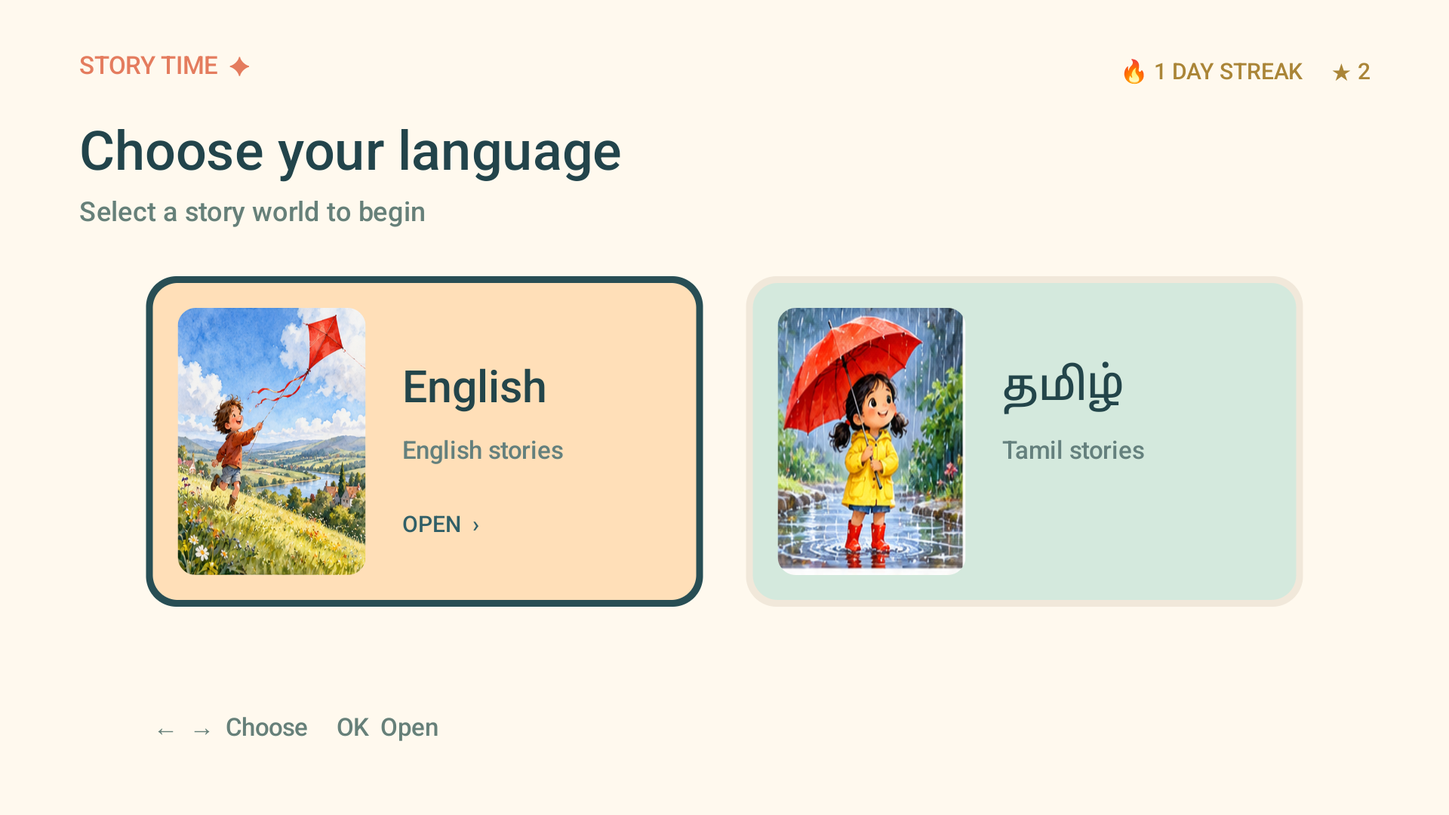
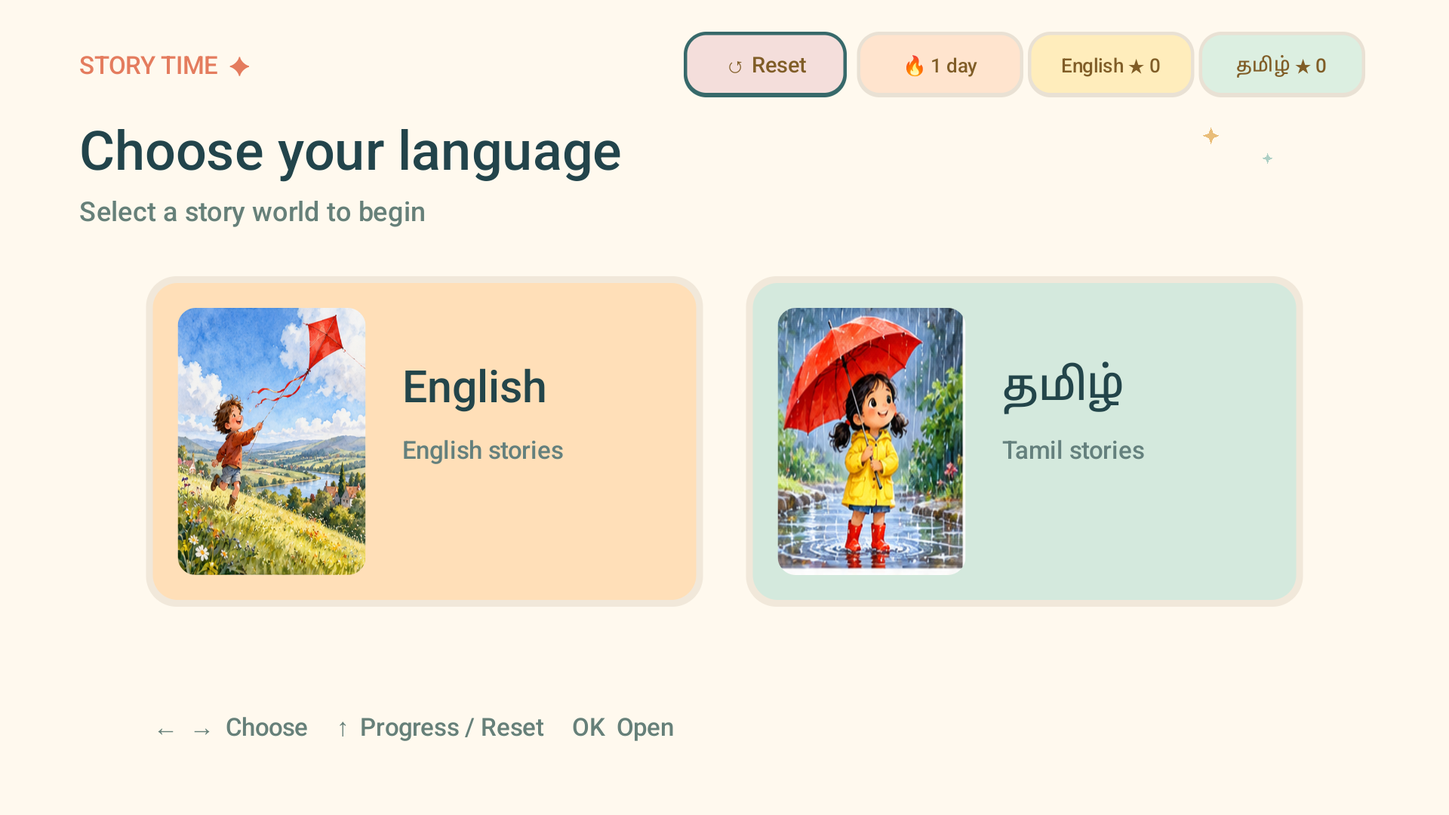
Celebrate story completion and reset reading progress

diff --git a/src/com/example/storytv/MainActivity.java b/src/com/example/storytv/MainActivity.java
@@ -1,19 +1,19 @@
 package com.example.storytv;
 import android.app.Activity;import android.os.Bundle;import android.graphics.*;import android.view.*;import org.json.*;import java.io.*;
 public class MainActivity extends Activity {
- JSONArray stories;int selected=0,firstRow=0,language=-1,languageChoice=0,statFocus=-1,progressScreen=-1,englishStars=0,tamilStars=0;boolean credits=false;Scene view;Bitmap meadow;CoverArt covers;
+ JSONArray stories;int selected=0,firstRow=0,language=-1,languageChoice=0,statFocus=-1,progressScreen=-1,englishStars=0,tamilStars=0;boolean credits=false,resetDialog=false;int resetChoice=0;Scene view;Bitmap meadow;CoverArt covers;
  public void onCreate(Bundle b){super.onCreate(b);getWindow().getDecorView().setSystemUiVisibility(5894);try{InputStream in=getAssets().open("stories.json");ByteArrayOutputStream out=new ByteArrayOutputStream();byte[] buf=new byte[4096];int n;while((n=in.read(buf))!=-1)out.write(buf,0,n);in.close();stories=new JSONArray(out.toString("UTF-8"));in=getAssets().open("meadow.png");meadow=BitmapFactory.decodeStream(in);in.close();}catch(Exception e){finish();return;}try{covers=new CoverArt(this);}catch(Exception e){finish();return;}view=new Scene();setContentView(view);}
  protected void onResume(){super.onResume();StreakChannel.refreshAsync(this);if(stories!=null){englishStars=StoryProgress.countLanguage(this,stories,false);tamilStars=StoryProgress.countLanguage(this,stories,true);}if(view!=null)view.invalidate();}
- public boolean onKeyDown(int k,KeyEvent e){if(progressScreen>=0){if(k==KeyEvent.KEYCODE_BACK||k==KeyEvent.KEYCODE_DPAD_CENTER||k==KeyEvent.KEYCODE_ENTER){progressScreen=-1;view.invalidate();}return true;}if(statFocus>=0){if(k==KeyEvent.KEYCODE_DPAD_LEFT)statFocus=Math.max(0,statFocus-1);else if(k==KeyEvent.KEYCODE_DPAD_RIGHT)statFocus=Math.min(2,statFocus+1);else if(k==KeyEvent.KEYCODE_DPAD_DOWN||k==KeyEvent.KEYCODE_BACK)statFocus=-1;else if(k==KeyEvent.KEYCODE_DPAD_CENTER||k==KeyEvent.KEYCODE_ENTER)progressScreen=statFocus;view.invalidate();return true;}if(credits){if(k==KeyEvent.KEYCODE_BACK||k==KeyEvent.KEYCODE_DPAD_CENTER){credits=false;view.invalidate();}return true;}
+ public boolean onKeyDown(int k,KeyEvent e){if(resetDialog){if(k==KeyEvent.KEYCODE_DPAD_LEFT||k==KeyEvent.KEYCODE_DPAD_RIGHT)resetChoice=k==KeyEvent.KEYCODE_DPAD_LEFT?0:1;else if(k==KeyEvent.KEYCODE_BACK)resetDialog=false;else if(k==KeyEvent.KEYCODE_DPAD_CENTER||k==KeyEvent.KEYCODE_ENTER){if(resetChoice==1){StoryProgress.resetStories(this);englishStars=0;tamilStars=0;selected=0;firstRow=0;}resetDialog=false;}view.invalidate();return true;}if(progressScreen>=0){if(k==KeyEvent.KEYCODE_BACK||k==KeyEvent.KEYCODE_DPAD_CENTER||k==KeyEvent.KEYCODE_ENTER){progressScreen=-1;view.invalidate();}return true;}if(statFocus>=0){if(k==KeyEvent.KEYCODE_DPAD_LEFT)statFocus=statFocus==0?3:statFocus==3?3:statFocus-1;else if(k==KeyEvent.KEYCODE_DPAD_RIGHT)statFocus=statFocus==3?0:Math.min(2,statFocus+1);else if(k==KeyEvent.KEYCODE_DPAD_DOWN||k==KeyEvent.KEYCODE_BACK)statFocus=-1;else if(k==KeyEvent.KEYCODE_DPAD_CENTER||k==KeyEvent.KEYCODE_ENTER){if(statFocus==3){resetDialog=true;resetChoice=0;}else progressScreen=statFocus;}view.invalidate();return true;}if(credits){if(k==KeyEvent.KEYCODE_BACK||k==KeyEvent.KEYCODE_DPAD_CENTER){credits=false;view.invalidate();}return true;}
  if(language<0){if(k==KeyEvent.KEYCODE_DPAD_UP){statFocus=0;}else if(k==KeyEvent.KEYCODE_DPAD_LEFT)languageChoice=0;else if(k==KeyEvent.KEYCODE_DPAD_RIGHT||k==KeyEvent.KEYCODE_DPAD_DOWN)languageChoice=1;else if(k==KeyEvent.KEYCODE_DPAD_CENTER||k==KeyEvent.KEYCODE_ENTER){language=languageChoice;selected=0;firstRow=0;}else if(k==KeyEvent.KEYCODE_BACK){finish();return true;}else return super.onKeyDown(k,e);view.invalidate();return true;}
  int total=LanguageCatalog.count(language);if(k==KeyEvent.KEYCODE_DPAD_LEFT)selected=Math.max((selected/3)*3,selected-1);else if(k==KeyEvent.KEYCODE_DPAD_RIGHT)selected=Math.min(Math.min(total-1,(selected/3)*3+2),selected+1);else if(k==KeyEvent.KEYCODE_DPAD_UP){if(selected<3)statFocus=0;else selected-=3;}else if(k==KeyEvent.KEYCODE_DPAD_DOWN)selected=Math.min(total-1,selected+3);else if(k==KeyEvent.KEYCODE_DPAD_CENTER||k==KeyEvent.KEYCODE_ENTER){int index=LanguageCatalog.storyIndex(language,selected);if(index==80){credits=true;}else if(index>=78){startActivity(new android.content.Intent(this,BookActivity.class).putExtra("book",index-78));}else{startActivity(new android.content.Intent(this,ShortStoryActivity.class).putExtra("story",index));}}else if(k==KeyEvent.KEYCODE_BACK){language=-1;view.invalidate();return true;}else return super.onKeyDown(k,e);int row=selected/3;if(row<firstRow)firstRow=row;else if(row>firstRow+1)firstRow=row-1;view.invalidate();return true;}
- class Scene extends View {Paint p=new Paint(3),motionPaint=new Paint(3);Scene(){super(MainActivity.this);}void text(Canvas c,String s,float x,float y,int size,int color){p.setColor(color);p.setTextSize(size);c.drawText(s,x,y,p);}void drawStats(Canvas c,float phase){int[] values={StoryProgress.streak(MainActivity.this),englishStars,tamilStars};for(int i=0;i<3;i++){float x=760+i*151;p.setColor(i==statFocus?StoryMotion.focusColor(phase):0xffe9e1d4);c.drawRoundRect(x-3,28,x+144,86,20,20,p);p.setColor(i==0?0xffffe4ce:i==1?0xffffedbc:0xffdcefe1);c.drawRoundRect(x,31,x+141,82,17,17,p);p.setTextAlign(Paint.Align.CENTER);String label=i==0?"🔥 "+values[i]+(values[i]==1?" day":" days"):i==1?"English ★ "+values[i]:"தமிழ் ★ "+values[i];text(c,label,x+70,64,17,0xff805d27);}p.setTextAlign(Paint.Align.LEFT);}protected void onDraw(Canvas c){c.save();c.scale(getWidth()/1280f,getHeight()/720f);c.drawColor(0xfffff9ee);float phase=StoryMotion.phase();if(!credits){StoryMotion.sparkle(c,motionPaint,1070,120,6+(float)Math.sin(phase)*2,0xffe9bd78);StoryMotion.sparkle(c,motionPaint,1120,140,4+(float)Math.cos(phase)*1.5f,0xffadcfc4);}p.setTypeface(Typeface.create("sans-serif-medium",0));p.setTextAlign(Paint.Align.LEFT);
- if(progressScreen>=0){text(c,"STORY TIME  ✦",70,65,22,0xffe47c5e);text(c,progressScreen==0?"Your reading streak":progressScreen==1?"English story stars":"தமிழ் கதை நட்சத்திரங்கள்",100,170,48,0xff22444b);p.setColor(progressScreen==0?0xffffe4ce:0xffffedbc);c.drawRoundRect(100,220,1180,500,32,32,p);p.setTextAlign(Paint.Align.CENTER);text(c,progressScreen==0?"🔥  "+StoryProgress.streak(MainActivity.this):"★  "+(progressScreen==1?englishStars:tamilStars),640,350,78,0xff94692f);text(c,progressScreen==0?"days of reading in a row":"stories completed",640,414,28,0xff805d27);p.setTextAlign(Paint.Align.LEFT);text(c,progressScreen==0?"Finish a story each day to grow your streak.":"Finish a new story to collect a star.",100,560,24,0xff567776);text(c,"BACK  Return",100,645,22,0xff668079);c.restore();return;}
+ class Scene extends View {Paint p=new Paint(3),motionPaint=new Paint(3);Scene(){super(MainActivity.this);}void text(Canvas c,String s,float x,float y,int size,int color){p.setColor(color);p.setTextSize(size);c.drawText(s,x,y,p);}void drawStats(Canvas c,float phase){p.setColor(statFocus==3?StoryMotion.focusColor(phase):0xffe9e1d4);c.drawRoundRect(604,28,748,86,20,20,p);p.setColor(0xfff4dedb);c.drawRoundRect(607,31,745,82,17,17,p);p.setTextAlign(Paint.Align.CENTER);text(c,"↺ Reset",676,64,19,0xff805d27);int[] values={StoryProgress.streak(MainActivity.this),englishStars,tamilStars};for(int i=0;i<3;i++){float x=760+i*151;p.setColor(i==statFocus?StoryMotion.focusColor(phase):0xffe9e1d4);c.drawRoundRect(x-3,28,x+144,86,20,20,p);p.setColor(i==0?0xffffe4ce:i==1?0xffffedbc:0xffdcefe1);c.drawRoundRect(x,31,x+141,82,17,17,p);p.setTextAlign(Paint.Align.CENTER);String label=i==0?"🔥 "+values[i]+(values[i]==1?" day":" days"):i==1?"English ★ "+values[i]:"தமிழ் ★ "+values[i];text(c,label,x+70,64,17,0xff805d27);}p.setTextAlign(Paint.Align.LEFT);}protected void onDraw(Canvas c){c.save();c.scale(getWidth()/1280f,getHeight()/720f);c.drawColor(0xfffff9ee);float phase=StoryMotion.phase();if(!credits){StoryMotion.sparkle(c,motionPaint,1070,120,6+(float)Math.sin(phase)*2,0xffe9bd78);StoryMotion.sparkle(c,motionPaint,1120,140,4+(float)Math.cos(phase)*1.5f,0xffadcfc4);}p.setTypeface(Typeface.create("sans-serif-medium",0));p.setTextAlign(Paint.Align.LEFT);
+ if(resetDialog){p.setColor(0xfffffaf1);c.drawColor(0xfffffaf1);p.setTextAlign(Paint.Align.CENTER);text(c,"Start reading again?",640,190,48,0xff22444b);text(c,"This clears all English and Tamil stars and read marks.",640,265,25,0xff567776);text(c,"Your reading streak stays as it is.",640,305,25,0xff567776);for(int i=0;i<2;i++){float x=300+i*350;p.setColor(i==resetChoice?0xff315f67:0xffe9e1d4);c.drawRoundRect(x-4,390,x+324,480,24,24,p);p.setColor(i==0?0xffd2ebda:0xffffdfca);c.drawRoundRect(x,394,x+320,476,20,20,p);text(c,i==0?"Cancel":"Reset stories",x+160,446,27,0xff23454a);}text(c,"←  →  Choose     OK  Select     BACK  Cancel",640,590,21,0xff668079);p.setTextAlign(Paint.Align.LEFT);c.restore();return;}if(progressScreen>=0){text(c,"STORY TIME  ✦",70,65,22,0xffe47c5e);text(c,progressScreen==0?"Your reading streak":progressScreen==1?"English story stars":"தமிழ் கதை நட்சத்திரங்கள்",100,170,48,0xff22444b);p.setColor(progressScreen==0?0xffffe4ce:0xffffedbc);c.drawRoundRect(100,220,1180,500,32,32,p);p.setTextAlign(Paint.Align.CENTER);text(c,progressScreen==0?"🔥  "+StoryProgress.streak(MainActivity.this):"★  "+(progressScreen==1?englishStars:tamilStars),640,350,78,0xff94692f);text(c,progressScreen==0?"days of reading in a row":"stories completed",640,414,28,0xff805d27);p.setTextAlign(Paint.Align.LEFT);text(c,progressScreen==0?"Finish a story each day to grow your streak.":"Finish a new story to collect a star.",100,560,24,0xff567776);text(c,"BACK  Return",100,645,22,0xff668079);c.restore();return;}
  if(credits){text(c,"Story credits",75,100,46,0xff27444a);text(c,"A Tiny Seed — Book Dash",75,175,28,0xff27444a);text(c,"Nicola Rijsdijk (writer), Maya Marshak (illustrator),",75,220,23,0xff27444a);text(c,"Tarryn-Anne Anderson (designer). Adapted into sentences for TV.",75,255,23,0xff27444a);text(c,"bookdash.org/books/a-tiny-seed",75,290,21,0xff27444a);text(c,"Everything Looks New! — Pratham Books / StoryWeaver",75,360,28,0xff27444a);text(c,"Mala Kumar and Manisha Chaudhry (writers), Priya Kuriyan (illustrator).",75,405,23,0xff27444a);text(c,"Adapted into sentences and cropped for TV.",75,440,23,0xff27444a);text(c,"storyweaver.org.in/stories/71-everything-looks-new",75,475,21,0xff27444a);text(c,"Both books: CC BY 4.0 — creativecommons.org/licenses/by/4.0",75,550,23,0xff27444a);text(c,"Press BACK to return",75,630,22,0xff638084);c.restore();return;}
- if(language<0){text(c,"STORY TIME  ✦",70,65,22,0xffe47c5e);drawStats(c,phase);text(c,"Choose your language",70,150,48,0xff22444b);text(c,"Select a story world to begin",70,195,24,0xff668079);for(int i=0;i<2;i++){float x=135+i*530,y=250;p.setColor(i==languageChoice&&statFocus<0?StoryMotion.focusColor(phase):0xfff1e8da);c.drawRoundRect(x-6,y-6,x+486,y+286,27,27,p);p.setColor(i==0?0xffffdfb8:0xffd4e9dd);c.drawRoundRect(x,y,x+480,y+280,22,22,p);Path clip=new Path();clip.addRoundRect(x+22,y+22,x+188,y+258,16,16,Path.Direction.CW);c.save();c.clipPath(clip);covers.draw(c,p,i==0?0:53,new RectF(x+22,y+22,x+188,y+258));c.restore();text(c,i==0?"English":"தமிழ்",x+220,y+105,39,0xff23454a);text(c,i==0?"English stories":"Tamil stories",x+220,y+155,22,0xff64807d);if(i==languageChoice&&statFocus<0)text(c,"OPEN  ›",x+220,y+220,20,0xff315f67);}text(c,"←  →  Choose     ↑  Progress     OK  Open",135,650,22,0xff668079);c.restore();if(StoryMotion.enabled())postInvalidateDelayed(100);return;}
+ if(language<0){text(c,"STORY TIME  ✦",70,65,22,0xffe47c5e);drawStats(c,phase);text(c,"Choose your language",70,150,48,0xff22444b);text(c,"Select a story world to begin",70,195,24,0xff668079);for(int i=0;i<2;i++){float x=135+i*530,y=250;p.setColor(i==languageChoice&&statFocus<0?StoryMotion.focusColor(phase):0xfff1e8da);c.drawRoundRect(x-6,y-6,x+486,y+286,27,27,p);p.setColor(i==0?0xffffdfb8:0xffd4e9dd);c.drawRoundRect(x,y,x+480,y+280,22,22,p);Path clip=new Path();clip.addRoundRect(x+22,y+22,x+188,y+258,16,16,Path.Direction.CW);c.save();c.clipPath(clip);covers.draw(c,p,i==0?0:53,new RectF(x+22,y+22,x+188,y+258));c.restore();text(c,i==0?"English":"தமிழ்",x+220,y+105,39,0xff23454a);text(c,i==0?"English stories":"Tamil stories",x+220,y+155,22,0xff64807d);if(i==languageChoice&&statFocus<0)text(c,"OPEN  ›",x+220,y+220,20,0xff315f67);}text(c,"←  →  Choose     ↑  Progress / Reset     OK  Open",135,650,22,0xff668079);c.restore();if(StoryMotion.enabled())postInvalidateDelayed(100);return;}
  int total=LanguageCatalog.count(language);text(c,"STORY TIME  ✦",70,65,22,0xffe47c5e);text(c,language==0?"English stories":"தமிழ் கதைகள்",70,126,43,0xff22444b);drawStats(c,phase);
  int start=firstRow*3;int[] colors={0xffffdfb8,0xffd4e9dd,0xffd4e7f3,0xfff4d8cf,0xffe5dcf3,0xffffe8a9};for(int n=0;n<6 && start+n<total;n++){int index=LanguageCatalog.storyIndex(language,start+n);float x=70+(n%3)*385,y=165+(n/3)*207;boolean focused=start+n==selected&&statFocus<0;p.setColor(focused?StoryMotion.focusColor(phase):0xfff1e8da);c.drawRoundRect(x-5,y-5,x+355,y+180,24,24,p);p.setColor(colors[index%colors.length]);c.drawRoundRect(x,y,x+350,y+175,20,20,p);
  Path clip=new Path();clip.addRoundRect(x+12,y+12,x+104,y+163,15,15,Path.Direction.CW);c.save();c.clipPath(clip);if(index<80)covers.draw(c,p,index,new RectF(x+12,y+12,x+104,y+163));else {p.setColor(0xff8bb5b1);c.drawRoundRect(x+12,y+12,x+104,y+163,15,15,p);p.setColor(0xffffffff);p.setTextSize(42);c.drawText("i",x+48,y+103,p);}c.restore();String title=index==80?"Credits":index==78?"A Tiny Seed":index==79?"Everything Looks New!":"";try{if(index<78)title=stories.getJSONObject(index).getString("title");}catch(Exception ignored){}p.setTextSize(23);while(p.measureText(title)>220&&p.getTextSize()>17)p.setTextSize(p.getTextSize()-1);p.setColor(0xff23454a);android.text.TextPaint titlePaint=new android.text.TextPaint(p);String display=android.text.TextUtils.ellipsize(title,titlePaint,220,android.text.TextUtils.TruncateAt.END).toString();c.drawText(display,x+118,y+66,p);boolean completed=index<80&&StoryProgress.isComplete(MainActivity.this,index>=78?"book:"+(index-78):"story:"+title);text(c,completed?"✓  Read":index==80?"About the books":index>=78?"Picture book":"6 little pages",x+118,y+101,18,completed?0xff32784e:0xff64807d);if(focused)text(c,"LET'S READ  ›",x+118,y+145,17,0xff315f67);if(index<80){String level="Hard";try{if(index<78)level=stories.getJSONObject(index).getString("level");}catch(Exception ignored){}int badge=level.equals("Easy")?0xffd6ead7:level.equals("Medium")?0xffffe9bc:0xfff7d8d1;int label=level.equals("Easy")?0xff477b55:level.equals("Medium")?0xff906a32:0xff99584f;p.setColor(badge);c.drawRoundRect(x+258,y+119,x+337,y+151,16,16,p);p.setTextAlign(Paint.Align.CENTER);text(c,level,x+297,y+141,16,label);p.setTextAlign(Paint.Align.LEFT);}}
- text(c,"←  →  Browse     ↑  Progress     OK  Open     BACK  Languages",70,655,21,0xff668079);p.setTextAlign(Paint.Align.RIGHT);text(c,firstRow<((total+2)/3-2)?"MORE STORIES  ↓":"END OF LIBRARY",1210,655,19,0xff668079);p.setColor(0xffe5e7dd);c.drawRoundRect(1230,165,1237,555,4,4,p);p.setColor(0xff66918c);float scrollTop=165+firstRow*(325f/((total+2)/3-2));c.drawRoundRect(1230,scrollTop,1237,scrollTop+65,4,4,p);c.restore();if(StoryMotion.enabled())postInvalidateDelayed(100);}}
+ text(c,"←  →  Browse     ↑  Progress / Reset     OK  Open     BACK  Languages",70,655,21,0xff668079);p.setTextAlign(Paint.Align.RIGHT);text(c,firstRow<((total+2)/3-2)?"MORE STORIES  ↓":"END OF LIBRARY",1210,655,19,0xff668079);p.setColor(0xffe5e7dd);c.drawRoundRect(1230,165,1237,555,4,4,p);p.setColor(0xff66918c);float scrollTop=165+firstRow*(325f/((total+2)/3-2));c.drawRoundRect(1230,scrollTop,1237,scrollTop+65,4,4,p);c.restore();if(StoryMotion.enabled())postInvalidateDelayed(100);}}
 }
 

diff --git a/src/com/example/storytv/ShortStoryActivity.java b/src/com/example/storytv/ShortStoryActivity.java
@@ -4,12 +4,12 @@ public class ShortStoryActivity extends Activity {
  JSONArray pages;String title,object;int page=-1,storyId,finishChoice=0;Bitmap image,places;CoverArt covers;Reader view;ReadingWords reader;
  public void onCreate(Bundle b){super.onCreate(b);getWindow().getDecorView().setSystemUiVisibility(5894);try{InputStream in=getAssets().open("stories.json");ByteArrayOutputStream data=new ByteArrayOutputStream();byte[] buffer=new byte[4096];int n;while((n=in.read(buffer))!=-1)data.write(buffer,0,n);in.close();storyId=getIntent().getIntExtra("story",0);JSONObject story=new JSONArray(data.toString("UTF-8")).getJSONObject(storyId);pages=story.getJSONArray("pages");title=story.getString("title");String[] icons={"🪁","🔔","🐚","☂","🪶","🍂","🏮","🔘","⛵","🎀","🧤","🪨","🔑","🌰","🌸","🔮","🧣","☕","🪨","🔖","💧","🎩","🖌","🥁","🌼","⚽","🎁","🍎","🌼","🚩","🌱","☁","⭐","🎈","🚿","🪙","🖍","🧸","🍊","🚂","🐚","📚","🚗","🌸","🔦","🍃","🦆","🧦","🪣","🥄","✈","⭐","🍱","☂","🦋","🥭","🪁","🌼","⛵","🐶","🌙","🌱","🎈","🐢","🍐","🚗","🐟","📖","🍂","🐈","🌻","🚲","🍌","🐚","🌸","🪶","🍎","🪺"};object=icons[storyId];in=getAssets().open("meadow.png");image=BitmapFactory.decodeStream(in);in.close();in=getAssets().open("places.png");places=BitmapFactory.decodeStream(in);in.close();}catch(Exception e){finish();return;}try{covers=new CoverArt(this);}catch(Exception e){finish();return;}view=new Reader();reader=new ReadingWords(this,view,storyId>=53?new java.util.Locale("ta","IN"):java.util.Locale.US);setContentView(view);}
  protected void onPause(){super.onPause();if(reader!=null)reader.stop();} protected void onDestroy(){if(reader!=null)reader.close();super.onDestroy();}
- public boolean onKeyDown(int k,KeyEvent e){if(page==pages.length()){if(k==KeyEvent.KEYCODE_DPAD_LEFT||k==KeyEvent.KEYCODE_DPAD_RIGHT){finishChoice=k==KeyEvent.KEYCODE_DPAD_LEFT?0:1;view.invalidate();return true;}if(k==KeyEvent.KEYCODE_BACK){finish();return true;}if(k==KeyEvent.KEYCODE_DPAD_CENTER||k==KeyEvent.KEYCODE_ENTER){if(finishChoice==1){finish();return true;}page=0;reader.reset();view.invalidate();return true;}return true;}if(page>=0&&reader.key(k))return true;if(k==KeyEvent.KEYCODE_DPAD_RIGHT||k==KeyEvent.KEYCODE_MEDIA_NEXT||(page==-1&&(k==KeyEvent.KEYCODE_DPAD_CENTER||k==KeyEvent.KEYCODE_ENTER))){if(page==pages.length()-1){StoryProgress.complete(this,"story:"+title);reader.reset();page=pages.length();finishChoice=0;view.invalidate();return true;}page++;reader.reset();}else if(k==KeyEvent.KEYCODE_DPAD_LEFT||k==KeyEvent.KEYCODE_BACK){if(page<=0){if(page==0){page=-1;view.invalidate();}else finish();return true;}page--;reader.reset();}else return super.onKeyDown(k,e);view.invalidate();return true;}
+ public boolean onKeyDown(int k,KeyEvent e){if(page==pages.length()){if(k==KeyEvent.KEYCODE_BACK||k==KeyEvent.KEYCODE_DPAD_CENTER||k==KeyEvent.KEYCODE_ENTER){finish();}return true;}if(page>=0&&reader.key(k))return true;if(k==KeyEvent.KEYCODE_DPAD_RIGHT||k==KeyEvent.KEYCODE_MEDIA_NEXT||(page==-1&&(k==KeyEvent.KEYCODE_DPAD_CENTER||k==KeyEvent.KEYCODE_ENTER))){if(page==pages.length()-1){StoryProgress.complete(this,"story:"+title);reader.reset();page=pages.length();finishChoice=0;view.invalidate();return true;}page++;reader.reset();}else if(k==KeyEvent.KEYCODE_DPAD_LEFT||k==KeyEvent.KEYCODE_BACK){if(page<=0){if(page==0){page=-1;view.invalidate();}else finish();return true;}page--;reader.reset();}else return super.onKeyDown(k,e);view.invalidate();return true;}
  class Reader extends View {
   Paint p=new Paint(3),motionPaint=new Paint(3);Reader(){super(ShortStoryActivity.this);}
   void dot(Canvas c,float x,float y,float r,int col){p.setColor(col);c.drawCircle(x,y,r,p);}
   void person(Canvas c,float x,float y,int shirt,float bounce){y+=bounce; p.setColor(0x33000000);c.drawOval(x-39,y+95,x+39,y+108,p);p.setColor(0xff5c4740);c.drawRoundRect(x-24,y+52,x-6,y+102,9,9,p);c.drawRoundRect(x+6,y+52,x+24,y+102,9,9,p);p.setColor(shirt);c.drawRoundRect(x-38,y-8,x+38,y+65,22,22,p);p.setColor(0xffefba88);c.drawRoundRect(x-54,y+2,x-32,y+50,11,11,p);c.save();c.rotate(bounce*1.5f,x+35,y+4);c.drawRoundRect(x+32,y+2,x+54,y+50,11,11,p);c.restore();dot(c,x,y-29,32,0xfff2c59d);p.setColor(0xff4e3d39);c.drawArc(x-33,y-68,x+33,y-15,185,175,true,p);dot(c,x-10,y-31,3,0xff463832);dot(c,x+10,y-31,3,0xff463832);p.setStyle(Paint.Style.STROKE);p.setStrokeWidth(2);p.setColor(0xff9e685e);c.drawArc(x-9,y-26,x+9,y-13,10,160,false,p);p.setStyle(Paint.Style.FILL);}
-  protected void onDraw(Canvas c){c.save();c.scale(getWidth()/1280f,getHeight()/720f);c.drawColor(0xfffffaf1);if(page==pages.length()){FinishScreen.draw(c,p,finishChoice,storyId>=53);c.restore();return;}if(page==-1){p.setTypeface(Typeface.create("sans-serif-medium",0));Path cp=new Path();cp.addRoundRect(330,65,950,485,24,24,Path.Direction.CW);c.save();c.clipPath(cp);covers.draw(c,p,storyId,new RectF(330,65,950,485));c.restore();p.setTextAlign(Paint.Align.CENTER);p.setColor(0xff20464c);p.setTextSize(46);c.drawText(title,640,565,p);p.setTextSize(23);p.setColor(0xff638082);c.drawText("Press OK to start reading",640,620,p);c.restore();return;}p.setTypeface(Typeface.create("sans-serif-medium",0));p.setColor(0xff3f6667);p.setTextSize(24);p.setTextAlign(Paint.Align.LEFT);c.drawText(title,70,60,p);p.setTextAlign(Paint.Align.RIGHT);c.drawText((page+1)+" / "+pages.length(),1210,60,p);p.setTextAlign(Paint.Align.LEFT);
+  protected void onDraw(Canvas c){c.save();c.scale(getWidth()/1280f,getHeight()/720f);c.drawColor(0xfffffaf1);if(page==pages.length()){FinishScreen.draw(c,p,storyId>=53);c.restore();if(StoryMotion.enabled())postInvalidateDelayed(100);return;}if(page==-1){p.setTypeface(Typeface.create("sans-serif-medium",0));Path cp=new Path();cp.addRoundRect(330,65,950,485,24,24,Path.Direction.CW);c.save();c.clipPath(cp);covers.draw(c,p,storyId,new RectF(330,65,950,485));c.restore();p.setTextAlign(Paint.Align.CENTER);p.setColor(0xff20464c);p.setTextSize(46);c.drawText(title,640,565,p);p.setTextSize(23);p.setColor(0xff638082);c.drawText("Press OK to start reading",640,620,p);c.restore();return;}p.setTypeface(Typeface.create("sans-serif-medium",0));p.setColor(0xff3f6667);p.setTextSize(24);p.setTextAlign(Paint.Align.LEFT);c.drawText(title,70,60,p);p.setTextAlign(Paint.Align.RIGHT);c.drawText((page+1)+" / "+pages.length(),1210,60,p);p.setTextAlign(Paint.Align.LEFT);
    Path clip=new Path();clip.addRoundRect(70,85,1210,470,24,24,Path.Direction.CW);c.save();c.clipPath(clip);float shift=(page%3)*14;int[] locations={-1,3,0,3,2,2,-1,3,-1,1,4,-1,3,2,-1,5,3,3,-1,1,3,2,1,1,3,5,1,3,-1,0,3,-1,3};int[] addedLocations={3,3,3,1,3,3,1,0,3,5,-1,2,3,1,1,0,1,3,1,1};int loc=storyId<locations.length?locations[storyId]:(storyId<53?addedLocations[storyId-33]:new int[]{3,3,2,-1,3,-1,3,-1,3,3,-1,3,1,-1,1,2,1,3,3,2,0,3,2,3,2}[storyId-53]);if(loc<0){c.drawBitmap(image,null,new RectF(55-shift,65,1225-shift,500),p);}else{int half=places.getWidth()/2, third=places.getHeight()/3;Rect source=new Rect((loc%2)*half,(loc/2)*third,(loc%2+1)*half,(loc/2+1)*third);c.drawBitmap(places,source,new RectF(55-shift,65,1225-shift,500),p);}
    float t=StoryMotion.phase();StoryMotion.scene(c,motionPaint,t);float bob=(float)Math.sin(t*2)*5;float hero=page==0?390:page==1?470:page==2?400:page==3?510:page==4?610:495;
    person(c,hero,330,0xffe87463,bob);if(page>=2)person(c,hero+140,337,0xff6aa7b4,-bob);

diff --git a/src/com/example/storytv/BookActivity.java b/src/com/example/storytv/BookActivity.java
@@ -5,7 +5,7 @@ public class BookActivity extends Activity {
  public void onCreate(Bundle b){super.onCreate(b);getWindow().getDecorView().setSystemUiVisibility(5894);book=getIntent().getIntExtra("book",0);try{InputStream in=getAssets().open(book==0?"seed/pages.json":"new/pages.json");ByteArrayOutputStream data=new ByteArrayOutputStream();byte[] buf=new byte[4096];int n;while((n=in.read(buf))!=-1)data.write(buf,0,n);in.close();pages=new JSONArray(data.toString("UTF-8"));count=pages.length();covers=new CoverArt(this);}catch(Exception e){finish();return;}view=new Reader();reader=new ReadingWords(this,view,java.util.Locale.US);setContentView(view);}
  void load() throws Exception {if(bitmap!=null)bitmap.recycle();InputStream in=getAssets().open(pages.getJSONObject(page).getString("image"));bitmap=BitmapFactory.decodeStream(in);in.close();}
  protected void onPause(){super.onPause();if(reader!=null)reader.stop();} protected void onDestroy(){if(reader!=null)reader.close();super.onDestroy();}
- public boolean onKeyDown(int k,KeyEvent e){if(page==count){if(k==KeyEvent.KEYCODE_DPAD_LEFT||k==KeyEvent.KEYCODE_DPAD_RIGHT){finishChoice=k==KeyEvent.KEYCODE_DPAD_LEFT?0:1;view.invalidate();return true;}if(k==KeyEvent.KEYCODE_BACK){finish();return true;}if(k==KeyEvent.KEYCODE_DPAD_CENTER||k==KeyEvent.KEYCODE_ENTER){if(finishChoice==1){finish();return true;}page=0;reader.reset();try{load();view.invalidate();}catch(Exception ex){finish();}return true;}return true;}if(page>=0&&reader.key(k))return true;int next=page;if(k==KeyEvent.KEYCODE_DPAD_RIGHT||k==KeyEvent.KEYCODE_MEDIA_NEXT||(page==-1&&(k==KeyEvent.KEYCODE_DPAD_CENTER||k==KeyEvent.KEYCODE_ENTER))){if(page==count-1){StoryProgress.complete(this,"book:"+book);reader.reset();page=count;finishChoice=0;view.invalidate();return true;}next++;}else if(k==KeyEvent.KEYCODE_DPAD_LEFT||k==KeyEvent.KEYCODE_BACK){if(page==-1){finish();return true;}if(page==0){page=-1;view.invalidate();return true;}next--;}else return super.onKeyDown(k,e);page=next;reader.reset();try{load();view.invalidate();}catch(Exception ex){finish();}return true;}
- class Reader extends View{Paint p=new Paint(3);Reader(){super(BookActivity.this);}protected void onDraw(Canvas c){c.save();c.scale(getWidth()/1280f,getHeight()/720f);c.drawColor(0xfff8f7f2);if(page==count){FinishScreen.draw(c,p,finishChoice,false);c.restore();return;}if(page==-1){Path clip=new Path();clip.addRoundRect(390,45,890,520,22,22,Path.Direction.CW);c.save();c.clipPath(clip);covers.draw(c,p,78+book,new RectF(390,45,890,520));c.restore();p.setTypeface(Typeface.create("sans-serif-medium",0));p.setTextAlign(Paint.Align.CENTER);p.setColor(0xff20464c);p.setTextSize(40);c.drawText(book==0?"A Tiny Seed":"Everything Looks New!",640,585,p);p.setTextSize(23);p.setColor(0xff638082);c.drawText("Press OK to start reading",640,630,p);c.restore();return;}p.setTypeface(Typeface.create("sans-serif-medium",0));p.setTextSize(23);p.setColor(0xff435f64);p.setTextAlign(Paint.Align.RIGHT);c.drawText((page+1)+" / "+count,1205,55,p);float scale=Math.min(1120f/bitmap.getWidth(),430f/bitmap.getHeight());float w=bitmap.getWidth()*scale,h=bitmap.getHeight()*scale;c.drawBitmap(bitmap,null,new RectF(640-w/2,75,640+w/2,75+h),p);
+ public boolean onKeyDown(int k,KeyEvent e){if(page==count){if(k==KeyEvent.KEYCODE_BACK||k==KeyEvent.KEYCODE_DPAD_CENTER||k==KeyEvent.KEYCODE_ENTER){finish();}return true;}if(page>=0&&reader.key(k))return true;int next=page;if(k==KeyEvent.KEYCODE_DPAD_RIGHT||k==KeyEvent.KEYCODE_MEDIA_NEXT||(page==-1&&(k==KeyEvent.KEYCODE_DPAD_CENTER||k==KeyEvent.KEYCODE_ENTER))){if(page==count-1){StoryProgress.complete(this,"book:"+book);reader.reset();page=count;finishChoice=0;view.invalidate();return true;}next++;}else if(k==KeyEvent.KEYCODE_DPAD_LEFT||k==KeyEvent.KEYCODE_BACK){if(page==-1){finish();return true;}if(page==0){page=-1;view.invalidate();return true;}next--;}else return super.onKeyDown(k,e);page=next;reader.reset();try{load();view.invalidate();}catch(Exception ex){finish();}return true;}
+ class Reader extends View{Paint p=new Paint(3);Reader(){super(BookActivity.this);}protected void onDraw(Canvas c){c.save();c.scale(getWidth()/1280f,getHeight()/720f);c.drawColor(0xfff8f7f2);if(page==count){FinishScreen.draw(c,p,false);c.restore();if(StoryMotion.enabled())postInvalidateDelayed(100);return;}if(page==-1){Path clip=new Path();clip.addRoundRect(390,45,890,520,22,22,Path.Direction.CW);c.save();c.clipPath(clip);covers.draw(c,p,78+book,new RectF(390,45,890,520));c.restore();p.setTypeface(Typeface.create("sans-serif-medium",0));p.setTextAlign(Paint.Align.CENTER);p.setColor(0xff20464c);p.setTextSize(40);c.drawText(book==0?"A Tiny Seed":"Everything Looks New!",640,585,p);p.setTextSize(23);p.setColor(0xff638082);c.drawText("Press OK to start reading",640,630,p);c.restore();return;}p.setTypeface(Typeface.create("sans-serif-medium",0));p.setTextSize(23);p.setColor(0xff435f64);p.setTextAlign(Paint.Align.RIGHT);c.drawText((page+1)+" / "+count,1205,55,p);float scale=Math.min(1120f/bitmap.getWidth(),430f/bitmap.getHeight());float w=bitmap.getWidth()*scale,h=bitmap.getHeight()*scale;c.drawBitmap(bitmap,null,new RectF(640-w/2,75,640+w/2,75+h),p);
  try{reader.draw(c,p,pages.getJSONObject(page).getString("text"),640,545,1100,40,0xff183d42);}catch(Exception ignored){}c.restore();}}
 }

diff --git a/src/com/example/storytv/FinishScreen.java b/src/com/example/storytv/FinishScreen.java
@@ -1,5 +1,5 @@
 package com.example.storytv;
 import android.graphics.*;
 final class FinishScreen {
- static void draw(Canvas c,Paint p,int choice,boolean tamil){c.drawColor(0xfffffaf1);p.setTypeface(Typeface.create("sans-serif-medium",0));p.setTextAlign(Paint.Align.CENTER);p.setColor(0xffffe0a7);c.drawCircle(640,180,72,p);p.setColor(0xffb57d2c);p.setTextSize(75);c.drawText("★",640,205,p);p.setColor(0xff20464c);p.setTextSize(48);c.drawText(tamil?"கதை முடிந்தது!":"Story complete!",640,310,p);p.setTextSize(25);p.setColor(0xff638082);c.drawText(tamil?"மீண்டும் படிக்கலாமா?":"Ready for another read?",640,360,p);for(int i=0;i<2;i++){float x=300+i*350;p.setColor(i==choice?0xff315f67:0xffe9e1d4);c.drawRoundRect(x-4,416,x+324,506,24,24,p);p.setColor(i==0?0xffd2ebda:0xffffe0b6);c.drawRoundRect(x,420,x+320,502,20,20,p);p.setColor(0xff23454a);p.setTextSize(27);c.drawText(i==0?(tamil?"மீண்டும் படி":"Read Again"):(tamil?"கதைகள்":"Stories"),x+160,472,p);}p.setColor(0xff668079);p.setTextSize(20);c.drawText("←  →  Choose     OK  Open     BACK  Stories",640,595,p);p.setTextAlign(Paint.Align.LEFT);}
+ static void draw(Canvas c,Paint p,boolean tamil){c.drawColor(0xfffffaf1);float t=StoryMotion.phase();for(int i=0;i<12;i++){float angle=(float)(i*Math.PI/6+t*.15);float radius=150+(float)Math.sin(t*2+i)*12;StoryMotion.sparkle(c,p,640+(float)Math.cos(angle)*radius,210+(float)Math.sin(angle)*radius,7+(float)Math.abs(Math.sin(t+i))*6,i%2==0?0xffffc85c:0xff8ccac4);}p.setColor(0xffffe0a7);c.drawCircle(640,210,85+(float)Math.sin(t*2)*5,p);p.setTypeface(Typeface.create("sans-serif-medium",0));p.setTextAlign(Paint.Align.CENTER);p.setColor(0xffb57d2c);p.setTextSize(95);c.drawText("★",640,242,p);p.setColor(0xff20464c);p.setTextSize(48);c.drawText(tamil?"அருமையாக படித்தாய்!":"Wonderful reading!",640,370,p);p.setTextSize(26);p.setColor(0xff638082);c.drawText(tamil?"ஒரு கதையை முடித்துவிட்டாய்!":"You finished a story. Great job!",640,420,p);p.setColor(0xff315f67);c.drawRoundRect(465,470,815,554,22,22,p);p.setColor(Color.WHITE);p.setTextSize(28);c.drawText(tamil?"கதைகளுக்குச் செல்":"Back to stories",640,523,p);p.setColor(0xff668079);p.setTextSize(20);c.drawText("OK / BACK  Stories",640,625,p);p.setTextAlign(Paint.Align.LEFT);}
 }

diff --git a/src/com/example/storytv/StoryProgress.java b/src/com/example/storytv/StoryProgress.java
@@ -5,6 +5,7 @@ final class StoryProgress {
  private static long today(){Calendar local=Calendar.getInstance();Calendar utc=new GregorianCalendar(TimeZone.getTimeZone("UTC"));utc.clear();utc.set(local.get(Calendar.YEAR),local.get(Calendar.MONTH),local.get(Calendar.DAY_OF_MONTH));return utc.getTimeInMillis()/86400000L;}
  static void complete(Context c,String id){SharedPreferences p=prefs(c);long last=p.getLong("last_read_day",Long.MIN_VALUE),now=today();int count=StreakLogic.next(last,p.getInt("reading_streak",0),now);SharedPreferences.Editor e=p.edit().putLong("last_read_day",now).putInt("reading_streak",count);if(!p.getBoolean(id,false))e.putBoolean(id,true);e.apply();StreakChannel.refreshAsync(c);}
  static boolean isComplete(Context c,String id){return prefs(c).getBoolean(id,false);}
+ static void resetStories(Context c){SharedPreferences p=prefs(c);SharedPreferences.Editor e=p.edit();for(String key:p.getAll().keySet())if(key.startsWith("story:")||key.startsWith("book:"))e.remove(key);e.apply();}
  static int countLanguage(Context c,org.json.JSONArray stories,boolean tamil){int n=0;for(int i=0;i<stories.length();i++){org.json.JSONObject story=stories.optJSONObject(i);if(story!=null&&tamil=="ta".equals(story.optString("language"))&&isComplete(c,"story:"+story.optString("title")))n++;}if(!tamil){if(isComplete(c,"book:0"))n++;if(isComplete(c,"book:1"))n++;}return n;}
  static int count(Context c){int n=0;for(Object value:prefs(c).getAll().values())if(Boolean.TRUE.equals(value))n++;return n;}
  static int streak(Context c){SharedPreferences p=prefs(c);return StreakLogic.visible(p.getLong("last_read_day",Long.MIN_VALUE),p.getInt("reading_streak",0),today());}

diff --git a/README.md b/README.md
@@ -12,12 +12,15 @@ A colourful Android TV reading app for children, with English and Tamil stories 
 - Six-page short stories, illustrated covers, animated scene effects and difficulty labels.
 - D-pad navigation, completion indicators, reading streaks and separate English and Tamil star counts.
 - Select a word to hear it spelled; press OK again while spelling to hear its pronunciation. Speech requires a compatible Android text-to-speech voice; offline availability depends on the installed voice.
-- Replay a completed story from the beginning. Reading progress is stored locally on the device.
+- Celebrate each completed story with an animated award. Reading progress is stored locally on the device.
+- Reset all English and Tamil read marks and stars to start the library again; the daily reading streak is preserved. A confirmation screen prevents accidental resets.
 - Android TV launcher channel support for the reading streak; launcher support and display vary by device. The streak badge near Ethernet shown in some screenshots requires a compatible custom launcher.
 
 ## Remote controls
 
 Choose a language and story using the arrow keys and OK. On a reading page, use **Right** for the next page and **Left** for the previous page. Use **Up** to select a word and **OK** to hear it. **Back** returns to the previous screen. OK does not advance a reading page.
+
+To reset the library, press **Up** from the language screen, move left to **Reset**, press **OK**, and choose **Reset stories**. Choose **Cancel** or press **Back** to keep the current progress.
 
 ## Build on Windows
 
